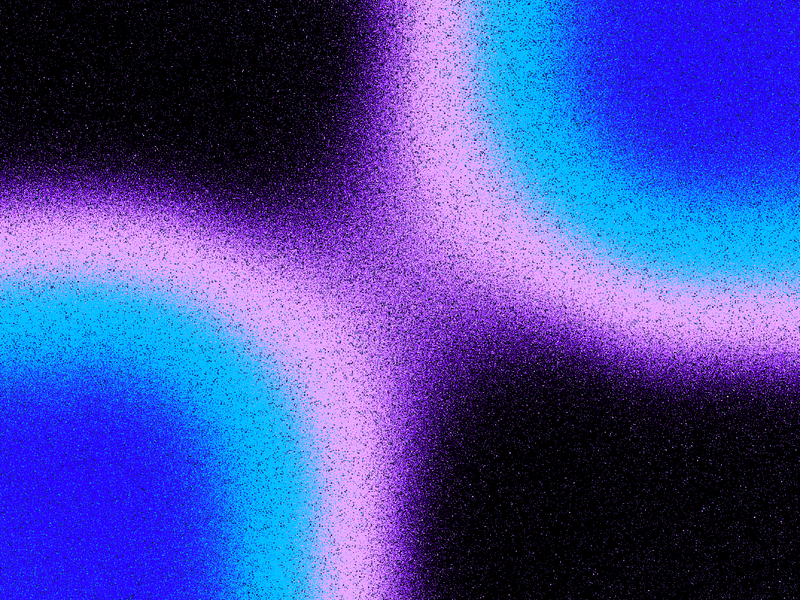
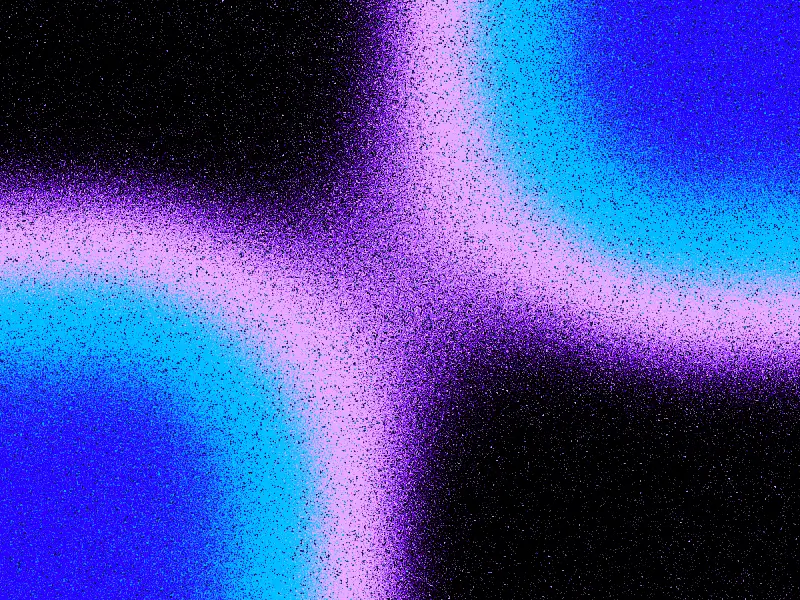
new grain preview image and fixed fullscreen preset on liquid-metal shader

diff --git a/packages/shaders-react/src/shaders/liquid-metal.tsx b/packages/shaders-react/src/shaders/liquid-metal.tsx
@@ -88,7 +88,7 @@ export const fullScreenPreset: LiquidMetalPreset = {
     shiftBlue: -1,
     distortion: 0.1,
     contour: 1,
-    shape: 'circle',
+    shape: 'none',
   },
 };
 
